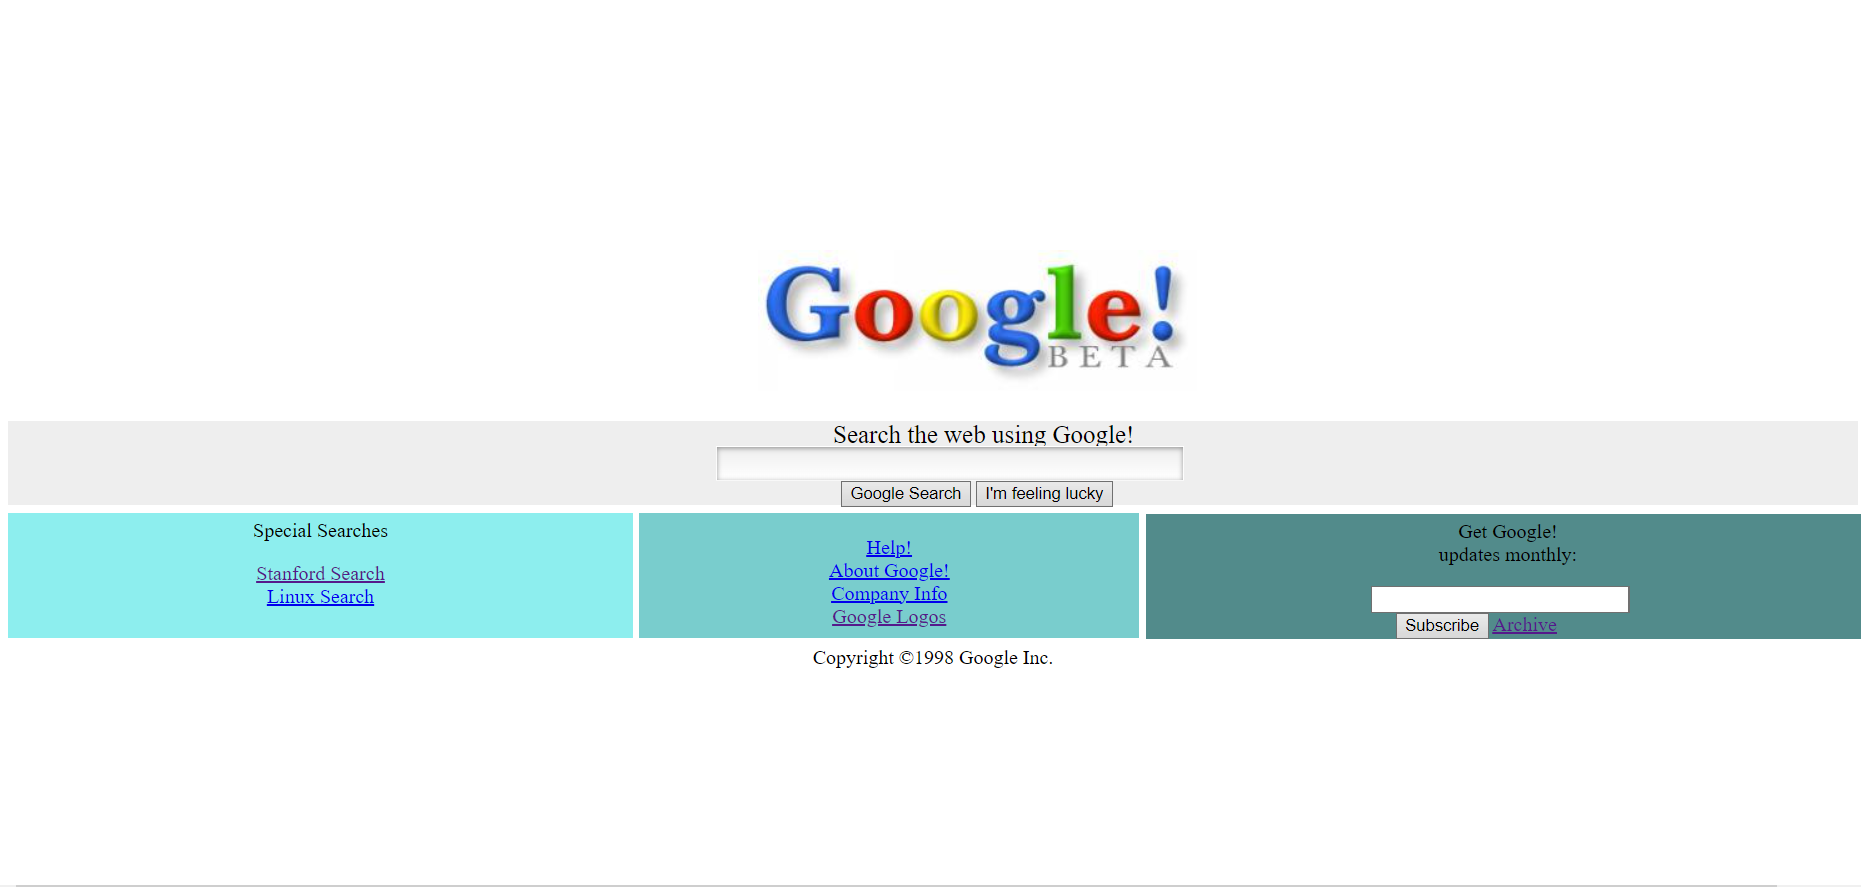
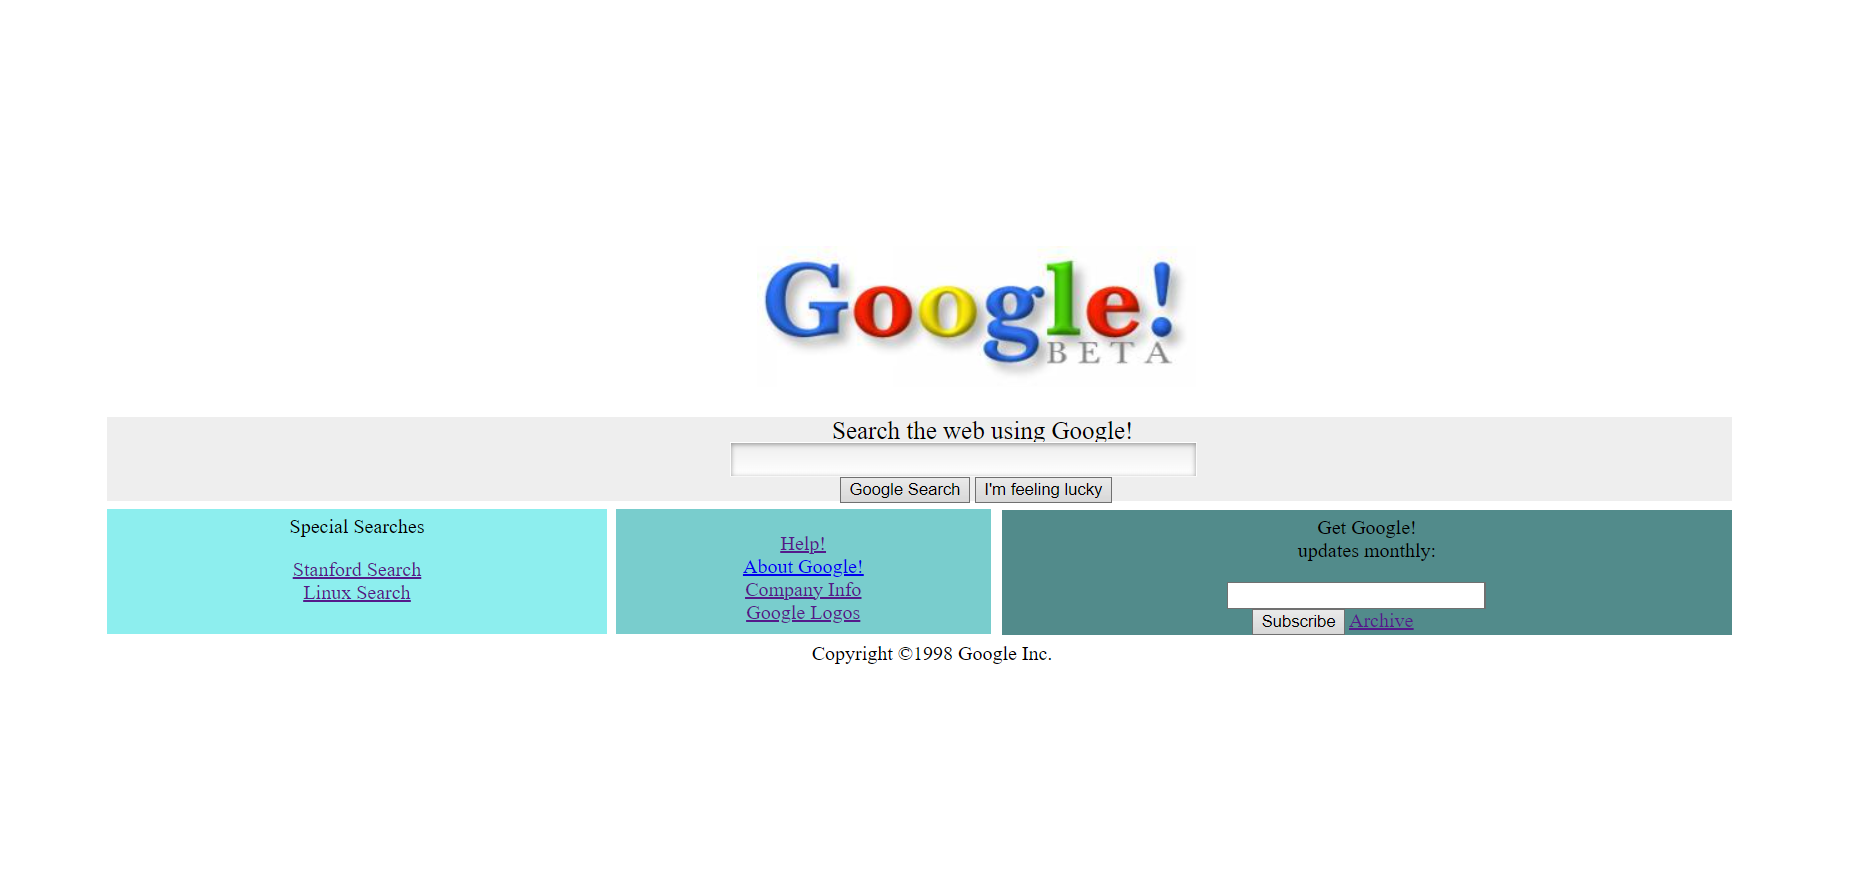
first commit

diff --git a/cssOdev2/index.html b/cssOdev2/index.html
@@ -5,7 +5,7 @@
     <meta http-equiv="X-UA-Compatible" content="IE=edge" />
     <meta name="viewport" content="width=device-width, initial-scale=1.0" />
     <link rel="stylesheet" href="bicimlendir.css" />
-    <title>Document</title>
+    <title>Google Beta</title>
   </head>
   <body>
     <div class="logo">
@@ -27,18 +27,18 @@
     <p class="boxp">
       Special Searches
    </p> 
-   <a href=" http://google.stanford.edu/" ><u >Stanford Search</u> </a>
+   <a href=" https://web.archive.org/web/19990224014327/http://www.google.com/stanford" ><u >Stanford Search</u> </a>
    <br>
-   <a href=" http://linusearch.com/" ><u>Linux Search</u></a>
+   <a href=" https://web.archive.org/web/19990221231654/http://www.google.com/linux" ><u>Linux Search</u></a>
    
   </div>
   <div class="box2 linktext">
     <br>
-    <a href=" http://support.google.com/" ><u >Help!</u> </a>
+    <a href=" https://web.archive.org/web/19990221212930if_/http://www.google.com/help.html" ><u >Help!</u> </a>
    <br>
    <a href="http://google.com/" ><u>About Google!</u></a>
    <br>
-   <a href="http://google.com/" ><u >Company Info</u> </a>
+   <a href="https://web.archive.org/web/19990221202430if_/http://www.google.com/company.html" ><u >Company Info</u> </a>
    <br>
    <a href="https://web.archive.org/web/19990504112211im_/http://www.google.com/google.jpg" ><u>Google Logos</u></a>
   </div>

diff --git a/cssOdev2/bicimlendir.css b/cssOdev2/bicimlendir.css
@@ -3,12 +3,13 @@
   margin-top: 200px;
 }
 .search {
-  width: auto;
+  width: 1300px;
   height: 67px;
   background-color: #eeeeee;
+  margin-left: 80px;
 }
 .yazi {
-  margin-left: 660px;
+  margin-left: 580px;
   font-size: 20px;
 
   height: 0;
@@ -22,6 +23,7 @@
   text-decoration: none;
   display: inline-block;
   font-size: 16px;
+  margin-left: -80px;
 }
 span,
 #saveServer {
@@ -47,9 +49,10 @@ span,
 
 .box1 {
   background-color: #8deeee;
-  width: 500px;
+  width: 400px;
   height: 100px;
   margin-top: -10px;
+  margin-left: 80px;
 }
 .linktext {
   text-align: center;
@@ -57,16 +60,16 @@ span,
 }
 .box2 {
   height: 100px;
-  width: 400px;
+  width: 300px;
   background-color: #79cdcd;
-  margin-left: 505px;
+  margin-left: 487px;
   margin-top: -100px;
 }
 .box3 {
   height: 100px;
-  width: 580px;
+  width: 584px;
   background-color: #528b8b;
-  margin-left: 910px;
+  margin-left: 796px;
   margin-top: -115px;
 }
 .searchbar2 {
